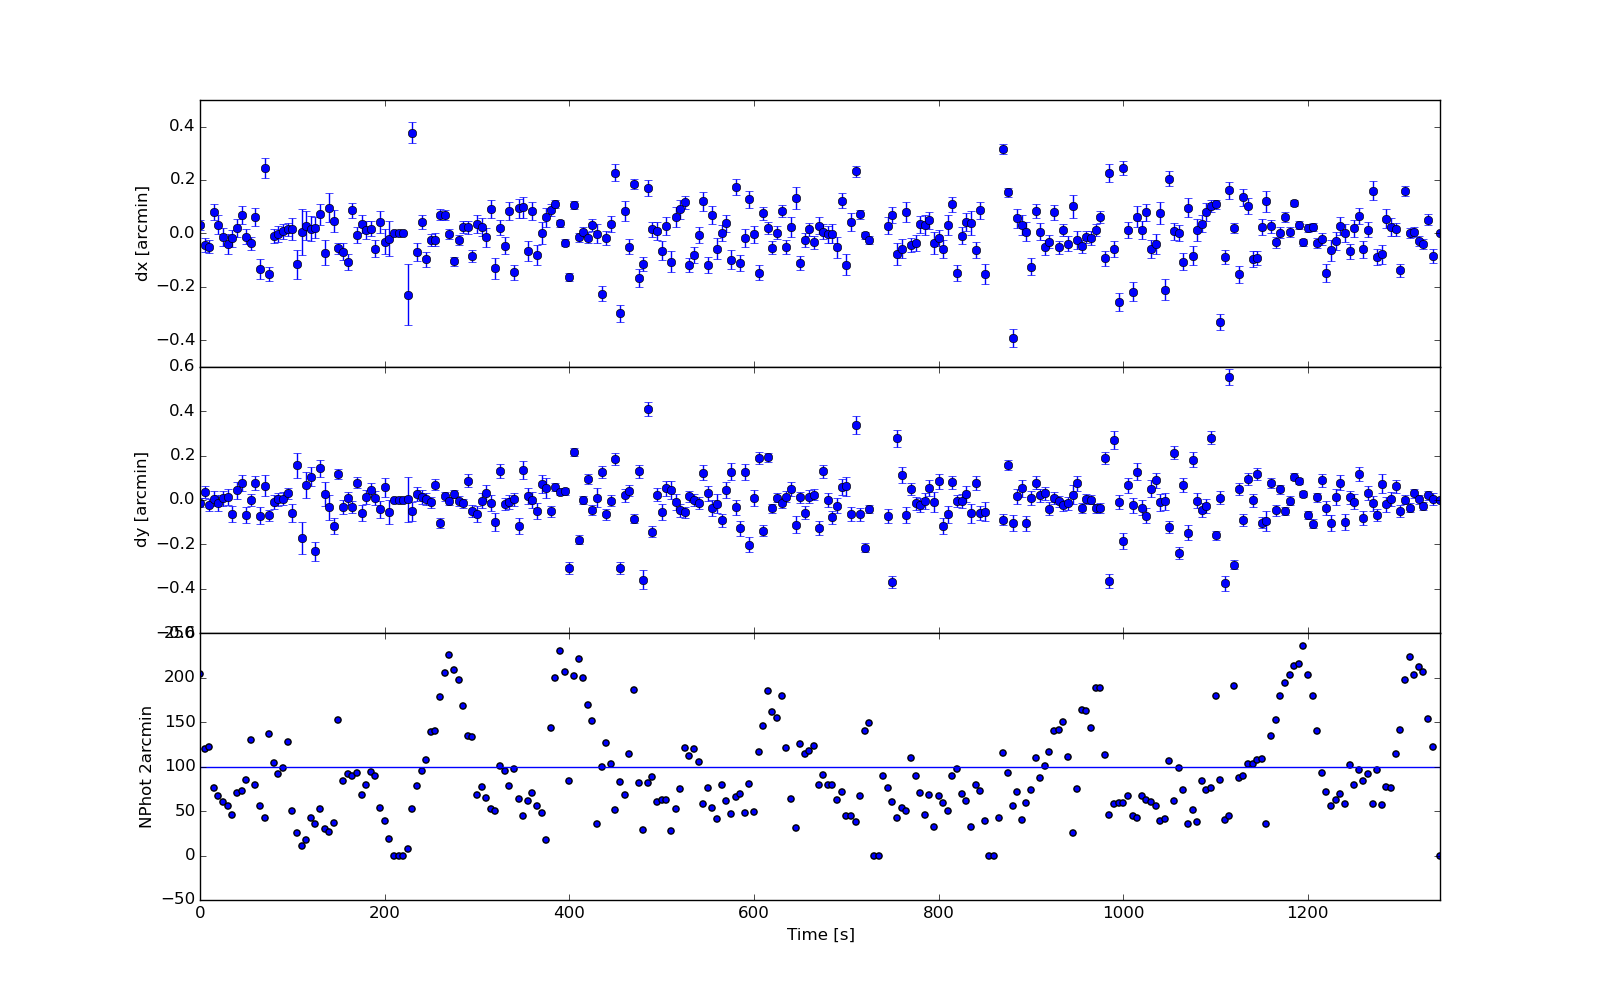
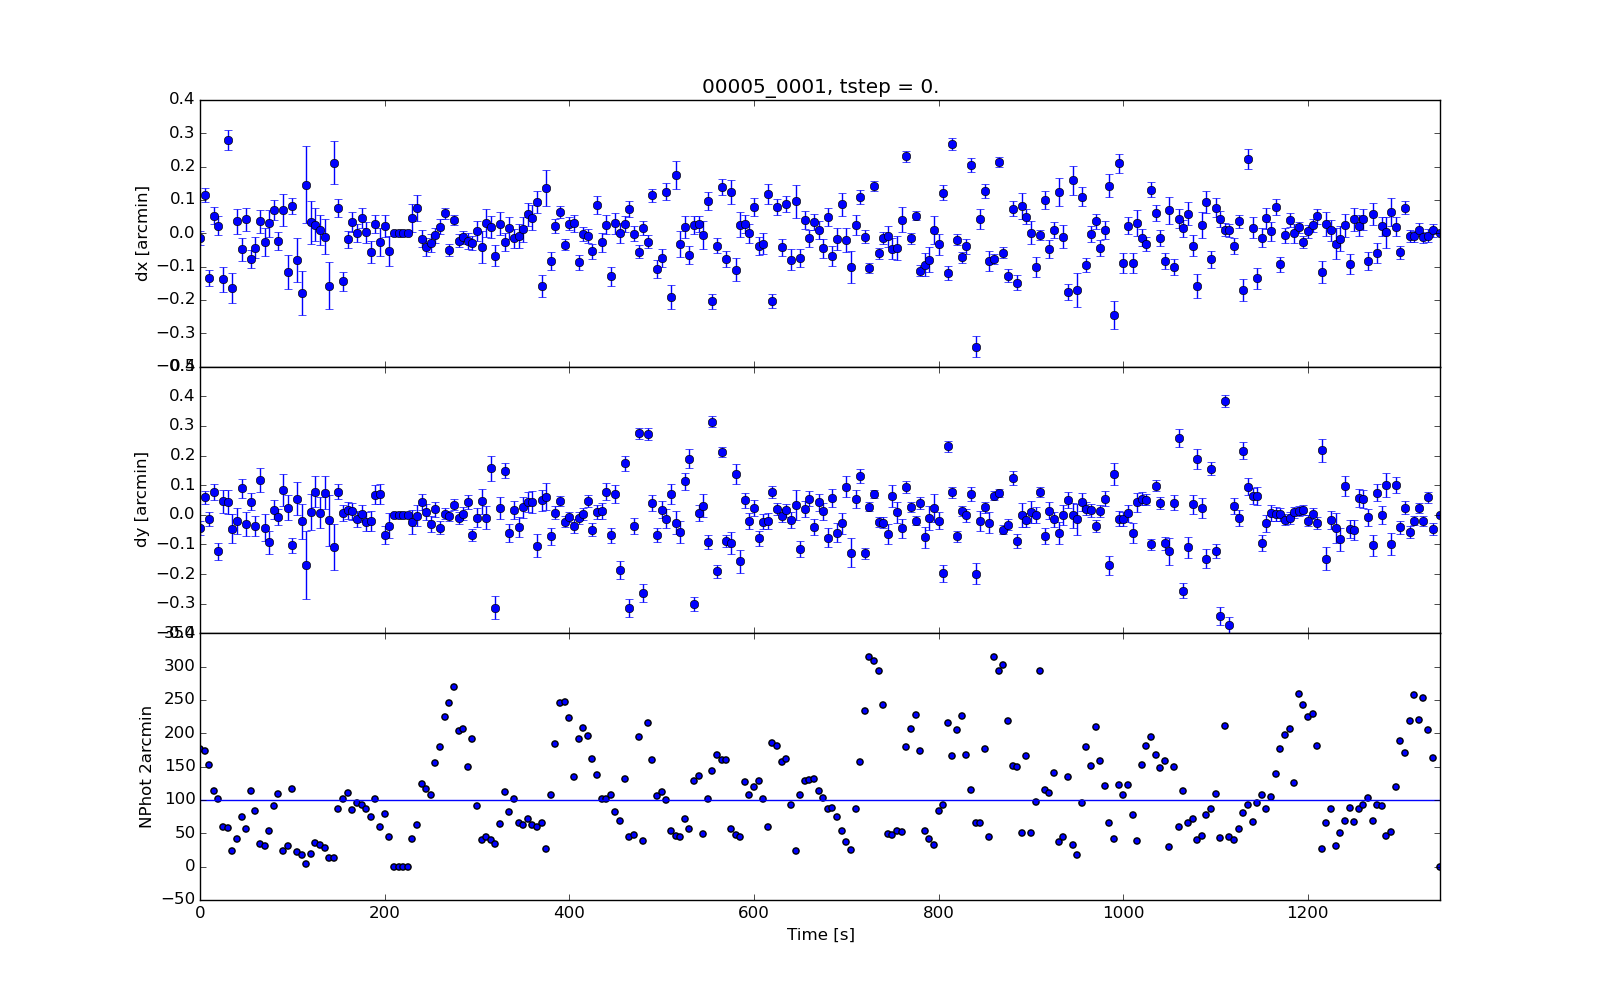
Skyplots, optimized code

diff --git a/pipeline/sourcefinder.py b/pipeline/sourcefinder.py
@@ -32,7 +32,7 @@ path = "../corrcsv/"
 lines = np.loadtxt("../filelists/csv_galcorr.txt", dtype = 'string')
 
 fix = 1.
-skyfield = 20 #what skyfield?
+skyfield = 0 #what skyfield?
 
 # 0,20,60,78,100,120,130,150,180,190,210,220,240,280,300,330,360,390,420,440
 
@@ -57,9 +57,9 @@ if plotgrid == 1:
 # Apply offset from last iteration?
 off = 1.
 for offsetrun in range(10):
-	tstep = 2.5
-	expsize = 5.
-	arcminlim = 2.
+	tstep = 0
+	expsize = 5
+	arcminlim = 3.
 	totdx,totdy,totphot2, totphot15,stdsumdx,stdsumdy = [],[],[],[],[],[]
 	timesteplimit = -1 	#Index of the timestep limits. -1 is the entire set
 	tempdgl, tempdgb = 0.,0.
@@ -71,10 +71,12 @@ for offsetrun in range(10):
 
 	if off == 1.:
 		offsetpath = '../dxdyoffsets/'
-		if os.path.exists('../dxdyoffsets/'+str(lines[skyfield])[:10]+'offset25.fits'):
+		if os.path.exists('../dxdyoffsets/'+str(lines[skyfield])[:10]+'offset.fits'):
 			if offsetrun == 0:
-				os.remove('../dxdyoffsets/'+str(lines[skyfield])[:10]+'offset25.fits')	
-			offsetfile = fits.open(offsetpath+lines[skyfield][:10]+'offset25.fits')[1].data
+				os.remove('../dxdyoffsets/'+str(lines[skyfield])[:10]+'offset.fits')	
+			offsetfile = fits.open(offsetpath+lines[skyfield][:10]+'offset.fits')[1].data
+		else:
+			pass
 	print 'offsetrun =', offsetrun
 
 	while (tstep < timestep[timesteplimit-5]):
@@ -120,8 +122,8 @@ for offsetrun in range(10):
 			if len(starnumber) > 2.:
 				pllist = []
 				pblist = []
-				pllist.append(fgl[photind[0:starnumber[0]+1]]-tempdgl)
-				pblist.append(fgb[photind[0:starnumber[0]+1]]-tempdgb)
+				pllist.append(fgl[photind[0:starnumber[0]+1]])
+				pblist.append(fgb[photind[0:starnumber[0]+1]])
 				for i in range(len(starnumber)-1):
 					pllist.append(fgl[photind[starnumber[i]+1:starnumber[i+1]+1]])
 					pblist.append(fgb[photind[starnumber[i]+1:starnumber[i+1]+1]])
@@ -146,16 +148,17 @@ for offsetrun in range(10):
 				
 				# Apply offset from last iteration, then add it to the photons
 				if off == 1.:
-					if os.path.exists('../dxdyoffsets/'+str(lines[skyfield])[:10]+'offset25.fits'):
-						offind = np.where(offsetfile.time == (tstep-2.5))
+					if os.path.exists('../dxdyoffsets/'+str(lines[skyfield])[:10]+'offset.fits'):
+						offind = np.where(offsetfile.time == (tstep)) # Remember to change to 2.5
 						print 'offind =', offind
 	
 						print 'dxoffset = ', offsetfile.dx[offind][0]
 						print 'dyoffset = ', offsetfile.dy[offind][0]
 	
-						sumdx = sumdx + offsetfile.dx[offind] 
-						sumdy = sumdy + offsetfile.dy[offind] 
+						sumdx = sumdx - offsetfile.dx[offind] 
+						sumdy = sumdy - offsetfile.dy[offind] 
 	
+				# Find peak of a histogram for dx,dy, remove peaks that are too offset from 0,0
 				bns = 50 
 				tx = np.histogram(sumdx,bins=bns)[1][np.argmax(np.histogram(sumdx,bins=bns)[0])]
 				ty = np.histogram(sumdy,bins=bns)[1][np.argmax(np.histogram(sumdy,bins=bns)[0])]
@@ -167,15 +170,18 @@ for offsetrun in range(10):
 					dxdyerror.append(tstep)
 					tx, ty = 0.,0.
 	
+				# Recenter dx,dy using histogram
 				sumdx = sumdx - tx
 				sumdy = sumdy - ty
 		
+				# Remove photons that are outside 1"
 				#plotdata(sumdx,sumdy)
 				radlim = np.where(np.sqrt(sumdx**2 + sumdy**2) < 1.)
 	
 				sumdx1am = sumdx[radlim]
 				sumdy1am = sumdy[radlim]
-	
+				
+				# temp coords apply a fix from the last position to the next one
 				totdx.append(np.mean(sumdx1am) - tempdgl)
 				totdy.append(np.mean(sumdy1am) - tempdgb)
 	
@@ -303,11 +309,12 @@ for offsetrun in range(10):
 	print len(timelist)
 	timelist = np.append(timelist,timestep[timesteplimit])
 
+	
 	f, axarr = plt.subplots(3, sharex=True,figsize=(16,10))
 	axarr[0].errorbar(timelist,totdx,yerr=stdsumdx,fmt='o')
 	axarr[0].set_ylabel('dx [arcmin]')
 	axarr[0].set_xlim(0,timestep[timesteplimit])
-	axarr[0].set_title(str(lines[skyfield][:10])+', tstep = 2.5s')
+	axarr[0].set_title(str(lines[skyfield][:10])+', tstep = 0.')
 	axarr[1].errorbar(timelist,totdy,yerr=stdsumdy,fmt='o')
 	axarr[1].set_ylabel('dy [arcmin]')
 	axarr[2].scatter(timelist, totphot2)
@@ -315,7 +322,7 @@ for offsetrun in range(10):
 	axarr[2].set_ylabel('NPhot 2arcmin')
 	axarr[2].axhline(y=100)
 	f.subplots_adjust(hspace=0)
-	
+
 	if off == 0:
 		if fix == 1.:
 			f.savefig('../dxdyplots/dxdyvst'+str(lines[skyfield])[:10]+'_fix.png')
@@ -324,17 +331,17 @@ for offsetrun in range(10):
 		#plt.show()
 	elif off == 1:
 		if fix == 1.:
-			f.savefig('../dxdyplots/dxdyvst'+str(lines[skyfield])[:10]+'_2.5s_fix_iter10.png')
+			f.savefig('../dxdyplots/dxdyvst'+str(lines[skyfield])[:10]+'_fix_iter10.png')
 		else:
-			f.savefig('../dxdyplots/dxdyvst'+str(lines[skyfield])[:10]+'_2.5s_nofix_iter10.png')
+			f.savefig('../dxdyplots/dxdyvst'+str(lines[skyfield])[:10]+'_nofix_iter10.png')
 		#plt.show()
-	
+		
 	##############################################################
 	# Make a table of dx, dy, Nphotons in 2' and 15' 
 	##############################################################
 	make_star_table = 1
 	if make_star_table == 1.:
-		a1 = np.array(np.arange(0,timestep[timesteplimit],5))
+		a1 = np.array(np.arange(0,timestep[timesteplimit],0.5))
 		a2 = np.array(totdx)
 		a3 = np.array(totdy)
 		a4 = np.array(totphot2)
@@ -354,10 +361,10 @@ for offsetrun in range(10):
 		hdu = fits.BinTableHDU.from_columns(new_cols)
 	
 		if off == 0.:
-			hdu.writeto('../dxdyoffsets/'+str(lines[skyfield])[:10]+'offset25.fits')
+			hdu.writeto('../dxdyoffsets/'+str(lines[skyfield])[:10]+'offset.fits')
 	
 		if ((off == 1.) & (offsetrun == 0.)):
-			if os.path.exists('../dxdyoffsets/'+str(lines[skyfield])[:10]+'offset25.fits'):
-				os.remove('../dxdyoffsets/'+str(lines[skyfield])[:10]+'offset25.fits')
+			if os.path.exists('../dxdyoffsets/'+str(lines[skyfield])[:10]+'offset.fits'):
+				os.remove('../dxdyoffsets/'+str(lines[skyfield])[:10]+'offset.fits')
 	
-			hdu.writeto('../dxdyoffsets/'+str(lines[skyfield])[:10]+'offset25.fits')
+			hdu.writeto('../dxdyoffsets/'+str(lines[skyfield])[:10]+'offset.fits')

diff --git a/pipeline/galeximg.py b/pipeline/galeximg.py
@@ -13,11 +13,13 @@ from numpy import loadtxt
 pointing1 = 0
 pointing2 = 1
 
+correction = 1
+
 ############################################
 # Input galactic longitude range
 ############################################
-a=80				# Start gl
-b=100				# End gl
+a=0					# Start gl
+b=5				# End gl
 
 ############################################
 # Set the file pathways
@@ -31,6 +33,10 @@ if pointing2 == 1:
 	path = "../corrcsv/"
 	#lines = loadtxt("../filelists/AIS_GAL_SCAN_csv.txt", comments = "#", delimiter = ",", unpack = False, dtype = str)
 	lines = loadtxt("../filelists/csv_galcorr.txt", dtype = 'string')
+
+if correction == 1:
+	offpath = "../dxdyoffsets/"
+	offlines = loadtxt("../filelists/dxdycorrectionfiles.txt",dtype='string')
 
 ############################################
 # Grab appropriate files using gl range
@@ -59,13 +65,28 @@ if pointing2 == 1:
 	endgl = endgl - 1
 	
 	photons = fits.open(path+lines[startgl])[1].data
-	#gl = SkyCoord(photons.RA*u.degree, photons.DEC*u.degree, frame='icrs').galactic.l.degree
-	#gb = SkyCoord(photons.RA*u.degree, photons.DEC*u.degree, frame='icrs').galactic.b.degree
 	gl = photons.gl
 	gb = photons.gb
+	time = photons.time
 
-print startgl
-print endgl
+	gl[(min(gl) < 10.) & (gl > 350.)] = gl[(min(gl) < 10.) & (gl > 350.)] - 360.
+
+	print len(gl)
+	print len(gb)
+
+
+	if correction == 1:
+		offset = fits.open(offpath+offlines[startgl])[1].data
+
+		for i in range(len(offset)-1):
+			offsetind = np.where((time >= offset.time[i]) & (time < offset.time[i+1]))
+			gl[offsetind] = gl[offsetind] + offset.dx[i]
+			gb[offsetind] = gb[offsetind] + offset.dy[i]
+	print len(gl)
+	print len(gb)
+
+print 'startgl = ', startgl
+print 'endgl =', endgl
 
 ############################################
 # Combine photons from up and down runs, stack data horizontally
@@ -99,17 +120,30 @@ if pointing2 == 1:
 	for i in range(startgl+1,endgl+1):
 		print i
 		try:
-			f1 = fits.open(path+lines[i])[1].data
-			#f1gl = SkyCoord(f1.RA*u.degree, f1.DEC*u.degree, frame='icrs').galactic.l.degree
-			#f1gb = SkyCoord(f1.RA*u.degree, f1.DEC*u.degree, frame='icrs').galactic.b.degree
+			f1 = fits.open(path+lines[i])[1].data 
 			f1gl = f1.gl
 			f1gb = f1.gb
+			time = f1.time
+			f1gl[(min(f1gl) < 10.) & (f1gl > 350.)] = f1gl[(min(f1gl) < 10.) & (f1gl > 350.)] - 360.
+			print len(f1gl)
+			print len(f1gb)
+
+			if correction == 1:
+				offset= fits.open(offpath+offlines[i])[1].data
+				for i in range(len(offset)-1):
+					offsetind = np.where((time >= offset.time[i]) & (time < offset.time[i+1]))
+					f1gl[offsetind] = f1gl[offsetind] + offset.dx[i]
+					f1gb[offsetind] = f1gb[offsetind] + offset.dy[i]
+			print len(f1gl)
+			print len(f1gb)
 
 		except IOError:								# if the file is corrupted, skip it 
 			print 'Index '+str(i)+' is corrupted'
 			
 		gl = np.hstack([gl, f1gl])
 		gb = np.hstack([gb, f1gb])
+
+
 
 
 ############################################
@@ -136,12 +170,18 @@ if pointing1 == 1:
 
 if pointing2 == 1:
 	binnum = 1200
-	
+	print binnum 
+
 	H, xbins, ybins = np.histogram2d(gl, gb, bins = (np.linspace(a, b, binnum), np.linspace(-10, 10, binnum)))
 	#fig = plt.figure(figsize = (10,10))
 	#ax = plt.axes()
 	
-	fits.PrimaryHDU(H).writeto('../intmapcsvcorr'+str(binnum)+'_'+str(a)+'_'+str(b)+'.fits')
+	print np.size(H)
+
+	if correction == 0:
+		fits.PrimaryHDU(H).writeto('../intmapcsvcorr'+str(binnum)+'_'+str(a)+'_'+str(b)+'.fits')
+	elif correction == 1:
+		fits.PrimaryHDU(H).writeto('../intmapcsvcorr'+str(binnum)+'_'+str(a)+'_'+str(b)+'off.fits')
 	
 	'''
 	ax.imshow(np.sqrt(H).T, vmin = 0, vmax = 5, origin = 'lower', extent = [a, b, -10, 10], interpolation = 'nearest', aspect = 'auto', cmap = 'gray')

diff --git a/pipeline/plotintmap.py b/pipeline/plotintmap.py
@@ -12,30 +12,59 @@ def plotmap(a,b,cutfluxlow, cutfluxhigh):
 	a=a		# Start gl
 	b=b		# End gl
 	
-	pixscale = 1 * (b - 20.)/20.
+	###################################################################
+	# Set a scale so we can cut the correct portion of the sky from the big expmap 
+	###################################################################
+	pixscale = (b - 20.)/20.
 	
+	offset = 0
+
+	###################################################################
+	# Load the photon map, which is 20x20 deg
+	###################################################################
 	#phomap = np.sqrt(fits.open('../intensitymap1200'+'_'+str(a)+'_'+str(b)+'.fits')[0].data).T
 	phomap = np.sqrt(fits.open('../intmapcsvcorr1200'+'_'+str(a)+'_'+str(b)+'.fits')[0].data).T	
+
+	###################################################################
+	# Load the expmap which is 360x20 deg
+	###################################################################
 	expmap = fits.open('../12-18-aspcorr_new_scst_1200.fits')[0].data.T
 
-	bstars = fits.open('../bstar.fits')[1].data
+	###################################################################
+	# Set pixel limits on the image to remove the edges of the expmap, then apply to the map
+	###################################################################
+	ymin = 39 # is gb = -10
+	ymax = 1238 # is gb = 10 
+	xmin = 39 + 1199 * pixscale + offset 
+	xmax = 1238 + 1199 * pixscale + offset
 
+	#expmap1 = expmap[39:1238,39+1199*pixscale:1238+1199*pixscale]
+	#expmap1 = expmap[39:1238,39+offset+1199*pixscale:1238+offset+1199*pixscale]
+	expmap1 = expmap[ymin:ymax,xmin:xmax]	
+
+	###################################################################
+	# Find gl,gb of bstars in that region, restrict by flux
+	###################################################################
+	bstars = fits.open('../bstar.fits')[1].data
 	gl = SkyCoord(bstars.ra*u.degree, bstars.dec*u.degree, frame='icrs').galactic.l.degree
 	gb = SkyCoord(bstars.ra*u.degree, bstars.dec*u.degree, frame='icrs').galactic.b.degree
 	blim = np.where((bstars.nuv_cps > cutfluxlow) & (bstars.nuv_cps < cutfluxhigh) & (gl > a) & (gl < b) & (gb > -10) & (gb < 10))
-
 	gl = gl[blim]
 	gb = gb[blim]
 
-	offset = 0
-	#expmap1 = expmap[39:1238,39+1199*pixscale:1238+1199*pixscale]
-	expmap1 = expmap[39:1238,39+offset+1199*pixscale:1238+offset+1199*pixscale]
+	###################################################################
+	# Combine the exposure map with the intensity map
+	###################################################################
 	intmap = phomap/expmap1	
 	intmap = np.nan_to_num(intmap)
 
+	###################################################################
+	# Now plot!
+	###################################################################
 	plt.scatter(gl,gb,facecolor='none',edgecolor='red')
 	plt.xlabel('gl')
 	plt.ylabel('gb')
 	return plt.imshow(intmap,vmin=0,vmax=0.7,origin='lower',extent=[a,b,-10,10],interpolation='nearest',aspect='auto',cmap=cm.gray), plt.show()	
 
-plotmap(0,20,10,100)
+
+plotmap(0,5,10,100)

diff --git a/pipeline/expmap.py b/pipeline/expmap.py
@@ -10,9 +10,9 @@ ny=81.
 # Make array exposure map
 #################################################
 # add a buffer around edge just for good measure
-expim=np.zeros((360.0*60+nx,20.0*60+ny))
+#expim=np.zeros((360.0*60+nx,20.0*60+ny))
 
-#expim=np.zeros((20.0*60+nx,20.0*60+ny)) # For 20x20 deg field
+expim=np.zeros((20.0*60+nx,20.0*60+ny)) # For 20x20 deg field
 
 #expim=np.zeros((200.0*60+nx,200.0*60+ny))
 
@@ -33,8 +33,8 @@ for i in np.arange(nx):
 # Open files to mask
 #################################################
 
-files1 = np.loadtxt('../filelists/aspcorr_new_list.txt',dtype='string')
-#files1 = np.loadtxt('../filelists/truncaspcorr_new_list.txt',dtype='string') # For 0-20deg
+#files1 = np.loadtxt('../filelists/aspcorr_new_list.txt',dtype='string')
+files1 = np.loadtxt('../filelists/truncaspcorr_new_list.txt',dtype='string') # For 0-20deg
 path = "../scst/"
 photonlist = np.loadtxt('../filelists/photontimes.txt',dtype='string')
 
@@ -107,4 +107,4 @@ for line in range(len(files1)):									# Iterate through scst files
 				print 'shape of expim != shape of mask' 
 
 hdu = fits.PrimaryHDU(expim)
-hdu.writeto('../12-18-aspcorr_new_scst_1200.fits')
+hdu.writeto('../12-18-aspcorr_new_scst_1200_0to20.fits')
